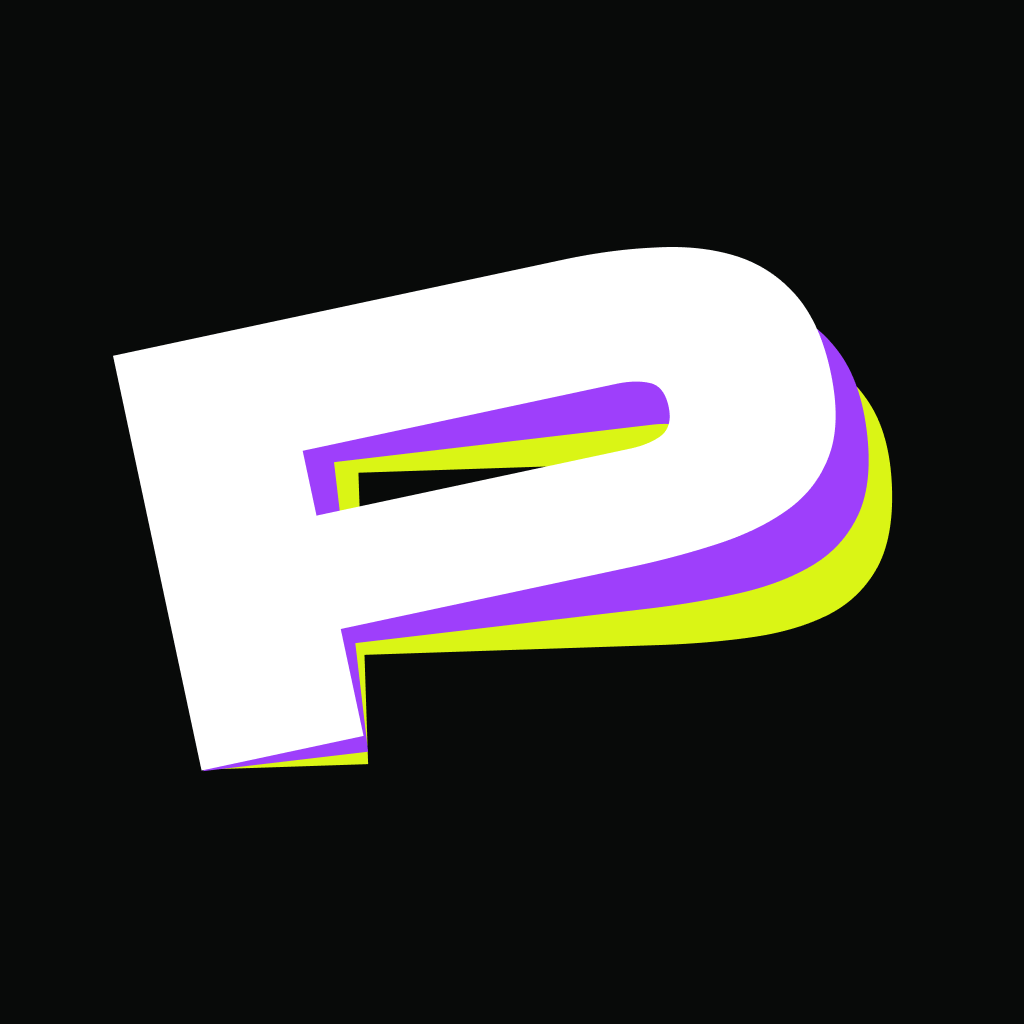
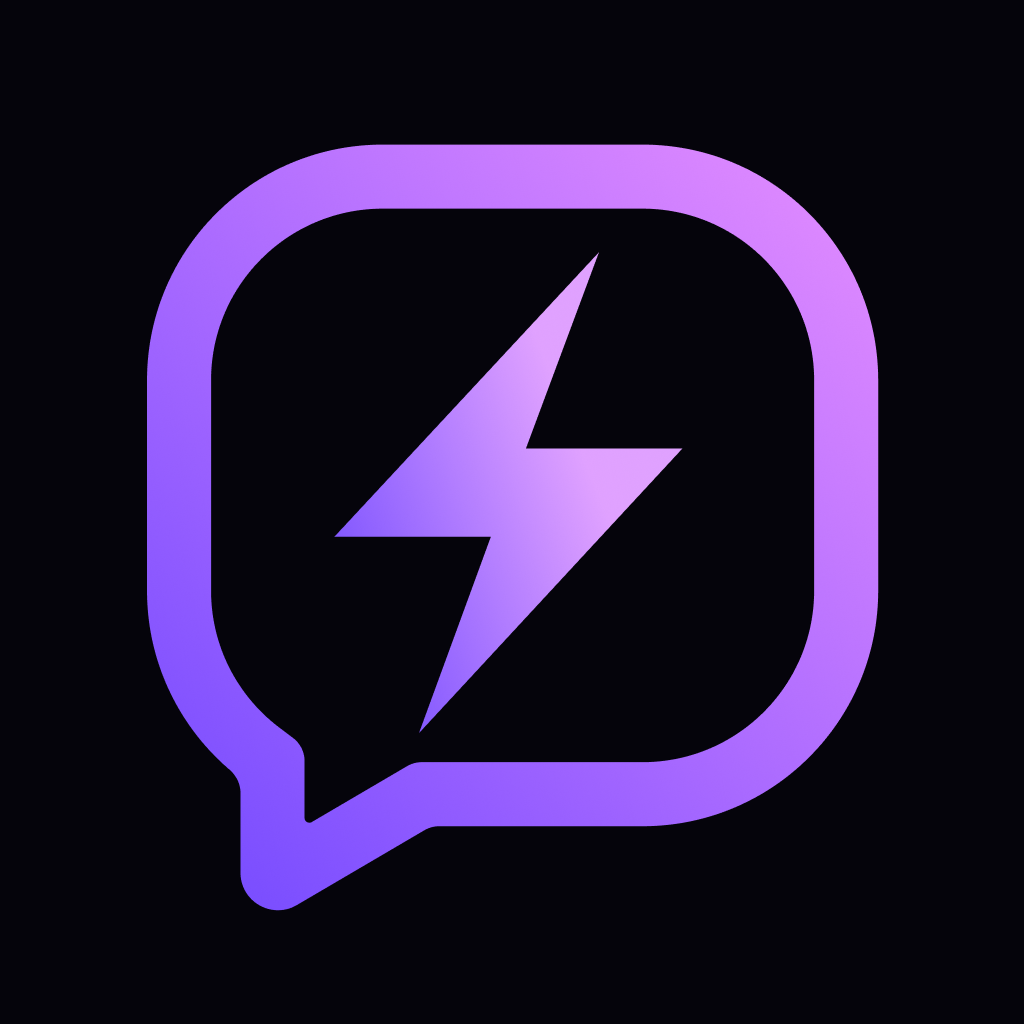
update PosteaHora project details and add thumbnail

diff --git a/data/projects.ts b/data/projects.ts
@@ -97,20 +97,21 @@ export const buildingNow: BuildingProject[] = [
     stack: ["Next.js", "Productivity"],
     gradient: "from-[#1E1B4B] to-[#0A0A0A]",
     accentColor: "#818CF8",
+    thumbnail: "/projects/momentum.png",
   },
   {
     slug: "posteahora",
     name: "PosteaHora",
     tagline:
-      "Schedule and publish social posts in Spanish — built for LATAM creators.",
+      "A social media management platform — schedule, publish, and manage all your accounts in one place.",
     description:
-      "Spanish-language social scheduler for creators and small teams across LATAM. Drafts, queues, multi-account publishing.",
+      "Platform for managing social media accounts: draft, queue, and publish across channels from a single dashboard. Currently adding AI-agent capabilities to automate content workflows.",
     url: "https://posteahora.com/",
     status: "Soft launch",
     stage: "MVP",
-    stageNote: "Soft launch · validating with LATAM creators",
+    stageNote: "Soft launch · adding AI-agent features",
     launched: "2025 Q2",
-    stack: ["Next.js", "Social", "ES"],
+    stack: ["Next.js", "Social", "AI"],
     gradient: "from-[#0A0A0A] to-[#312E81]",
     accentColor: "#6366F1",
     thumbnail: "/projects/posteahora.png",